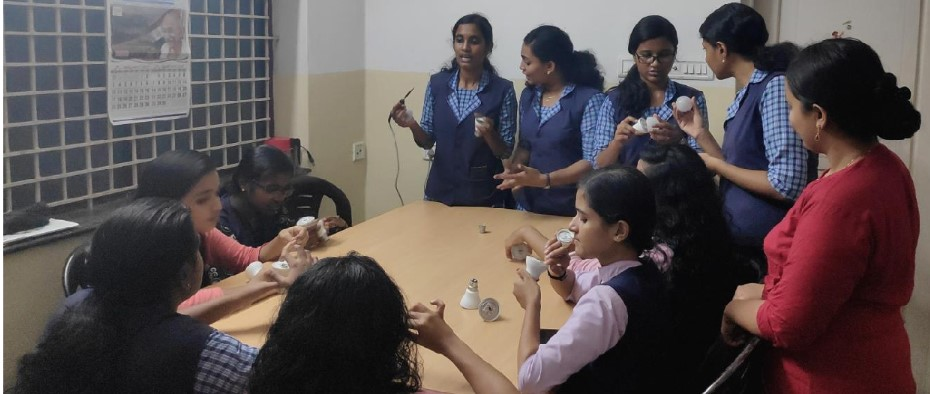
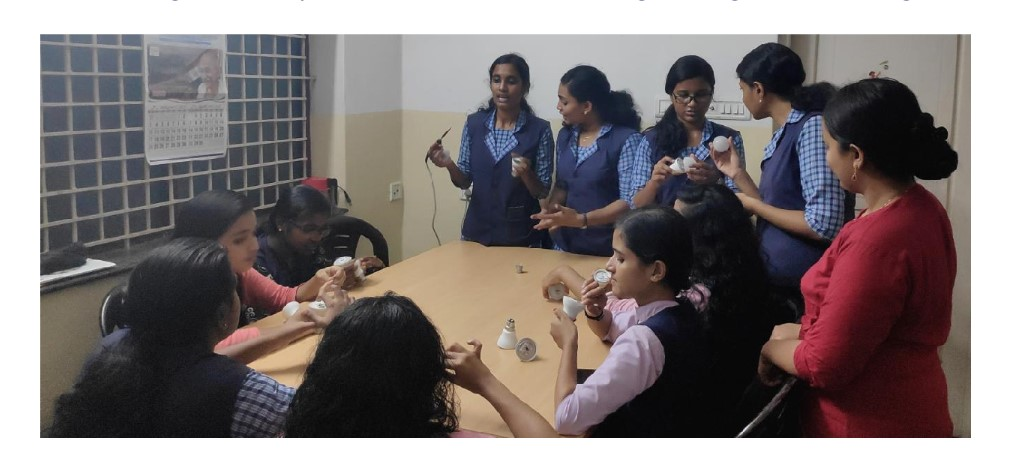
make changes

diff --git a/style.css b/style.css
@@ -45,7 +45,8 @@ margin-top: -80px;
     max-width: 100%;
     max-height: 100%;
     z-index: -1;
-    object-fit: contain;
+    position: relative;
+    object-fit: cover;
     
 }
 h3{
@@ -61,6 +62,7 @@ h3{
     text-align: center;
     font-size: 20px;
     font-weight: bold;
+    padding: 2px;
 
 }
 #team{
@@ -83,7 +85,7 @@ h3{
     margin-right: 100px;
     align-content: center;}
     #team .card img{
-        width: 60%;
+        width: 80%;
         height: 60%;
     }
   } 
